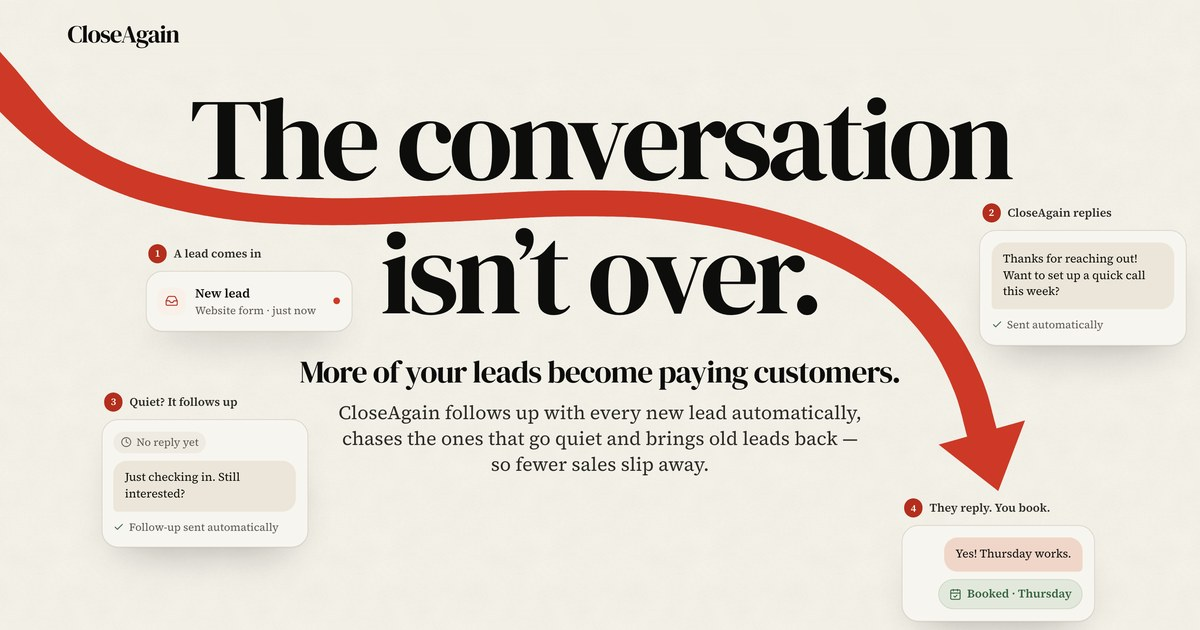
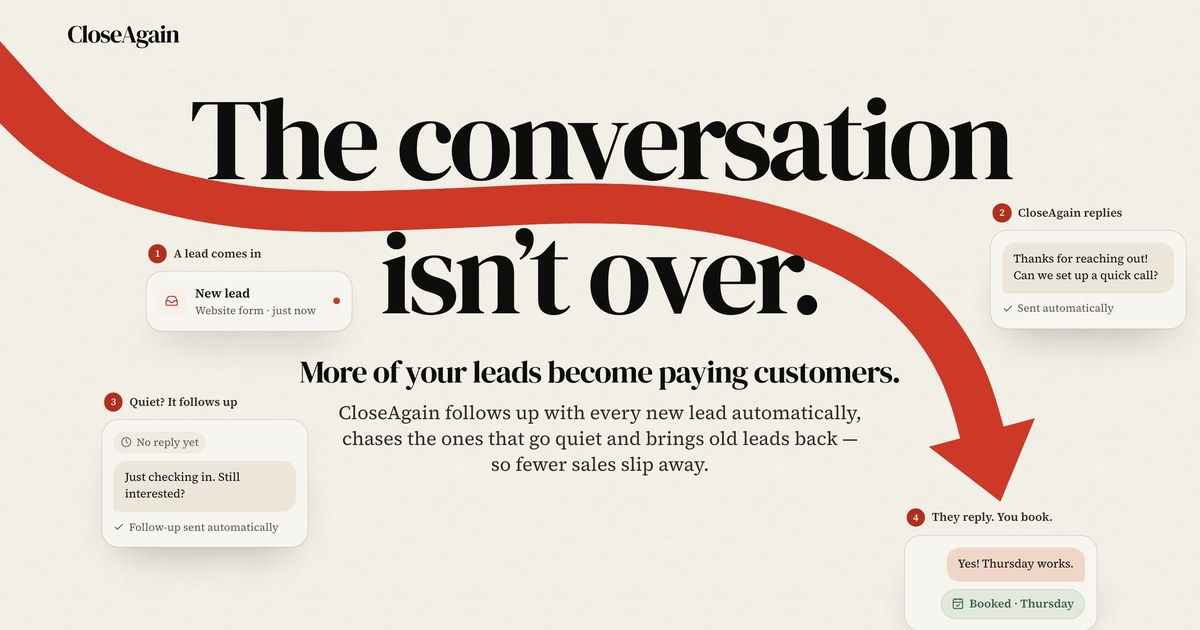
Thicker, smoother hero arrow; final polish pass (#21)
- Arrow: about 40% bolder (84 → 50 → 56 across its length, and 31 on
  phones). The centreline and width are smoothed with a few passes of a
  triangular average, so the curve has no kinks where the traced points
  join. Tangents use a wider window and the reveal follows the smoothed
  line exactly. The arrowhead is a little more compact, to suit the
  heavier shaft.
- Cards re-placed for the bolder stroke: "CloseAgain replies" sits outside
  the curve, and the booking card sits right under the new tip. The phone
  promise line has more room under the arrowhead.
- Reveals: something near the end of a short page (the thank-you bubble)
  plays as soon as it's in view, instead of waiting for a scroll position
  the page can't reach.
- Re-captured the share card.

Final checks: a crawl of all 27 pages found no broken links or anchors. The
contact-to-buy flow submits end to end (desktop, phone, no-JS) to the local
test sink. Every page was reviewed in dark mode.

diff --git a/lib/ribbon.ts b/lib/ribbon.ts
@@ -28,6 +28,13 @@ export type RibbonSpec = {
   taperStart?: number
   /** Sampling distance in viewBox units. */
   step?: number
+  /**
+   * Smoothing radius, in samples: the sampled centreline and width are
+   * averaged over this many neighbours (a few passes of a triangular
+   * kernel), which irons out the small changes of curvature where the traced
+   * points join, so the stroke reads as one continuous gesture.
+   */
+  smooth?: number
 }
 
 export type RibbonGeometry = {
@@ -108,6 +115,36 @@ function bezier(s: [Vec, Vec, Vec, Vec], t: number): Vec {
   ]
 }
 
+/**
+ * A few passes of a triangular moving average, keeping both ends where they
+ * are (the radius shrinks towards them, so the end tangent survives).
+ */
+function smoothSeries<T extends number | Vec>(values: T[], radius: number, passes = 3): T[] {
+  if (radius < 1) return values
+  let current = values
+  for (let pass = 0; pass < passes; pass++) {
+    current = current.map((value, i) => {
+      const r = Math.min(radius, i, current.length - 1 - i)
+      if (r < 1) return value
+      let total = 0
+      let x = 0
+      let y = 0
+      for (let k = -r; k <= r; k++) {
+        const weight = r + 1 - Math.abs(k)
+        const v = current[i + k]
+        total += weight
+        if (typeof v === 'number') x += v * weight
+        else {
+          x += v[0] * weight
+          y += v[1] * weight
+        }
+      }
+      return (typeof value === 'number' ? x / total : [x / total, y / total]) as T
+    })
+  }
+  return current
+}
+
 function interpolateWidth(stops: RibbonSpec['width'], t: number) {
   if (t <= stops[0][0]) return stops[0][1]
   for (let i = 1; i < stops.length; i++) {
@@ -146,15 +183,16 @@ export function buildRibbon(spec: RibbonSpec): RibbonGeometry {
   const total = cumulative[cumulative.length - 1]
   const count = Math.max(8, Math.ceil(total / step))
 
-  const samples: Vec[] = []
+  const even: Vec[] = []
   let j = 1
   for (let i = 0; i <= count; i++) {
     const target = (total * i) / count
     while (j < cumulative.length - 1 && cumulative[j] < target) j++
     const span = cumulative[j] - cumulative[j - 1] || 1
     const k = (target - cumulative[j - 1]) / span
-    samples.push(add(dense[j - 1], scale(sub(dense[j], dense[j - 1]), k)))
+    even.push(add(dense[j - 1], scale(sub(dense[j], dense[j - 1]), k)))
   }
+  const samples = smoothSeries(even, spec.smooth ?? 0)
 
   const left: Vec[] = []
   const right: Vec[] = []
@@ -162,21 +200,29 @@ export function buildRibbon(spec: RibbonSpec): RibbonGeometry {
   let endTangent: Vec = [1, 0]
   let endWidth = 0
 
+  const widths = smoothSeries(
+    samples.map((_, i) => {
+      const t = i / (samples.length - 1)
+      const arc = t * total
+      let w = interpolateWidth(spec.width, t)
+      w *= 1 + wobble * (0.6 * Math.sin(arc / 53 + seed) + 0.4 * Math.sin(arc / 19 + seed * 2.3))
+      if (spec.taperStart && arc < spec.taperStart) {
+        const k = arc / spec.taperStart
+        w *= 0.18 + 0.82 * Math.sin((k * Math.PI) / 2)
+      }
+      return w
+    }),
+    spec.smooth ?? 0,
+  )
+
   for (let i = 0; i < samples.length; i++) {
-    const prev = samples[Math.max(0, i - 1)]
-    const next = samples[Math.min(samples.length - 1, i + 1)]
+    // Tangents over two samples either side, so the edges never flicker.
+    const prev = samples[Math.max(0, i - 2)]
+    const next = samples[Math.min(samples.length - 1, i + 2)]
     const d = sub(next, prev)
     const tangent = scale(d, 1 / (len(d) || 1))
     const normal: Vec = [-tangent[1], tangent[0]]
-    const t = i / (samples.length - 1)
-    const arc = t * total
-
-    let w = interpolateWidth(spec.width, t)
-    w *= 1 + wobble * (0.6 * Math.sin(arc / 53 + seed) + 0.4 * Math.sin(arc / 19 + seed * 2.3))
-    if (spec.taperStart && arc < spec.taperStart) {
-      const k = arc / spec.taperStart
-      w *= 0.18 + 0.82 * Math.sin((k * Math.PI) / 2)
-    }
+    const w = widths[i]
 
     maxWidth = Math.max(maxWidth, w)
     left.push(add(samples[i], scale(normal, w / 2)))
@@ -225,8 +271,15 @@ export function buildRibbon(spec: RibbonSpec): RibbonGeometry {
     : null
   const headFrom = spec.arrow ? ([-endTangent[0] * endWidth * 1.1, -endTangent[1] * endWidth * 1.1] as const) : null
 
+  // The reveal follows the smoothed centreline exactly.
   const guide =
-    `M ${pt(segments[0][0])}` + segments.map((s) => ` C ${pt(s[1])} ${pt(s[2])} ${pt(s[3])}`).join('')
+    spec.smooth
+      ? `M ${pt(samples[0])}` +
+        samples
+          .filter((_, i) => i > 0 && (i % 3 === 0 || i === samples.length - 1))
+          .map((v) => ` L ${pt(v)}`)
+          .join('')
+      : `M ${pt(segments[0][0])}` + segments.map((s) => ` C ${pt(s[1])} ${pt(s[2])} ${pt(s[3])}`).join('')
 
   const padding = maxWidth * 1.5
   const xs = [...samples.map((p) => p[0]), tip[0]]

diff --git a/components/art/ribbons.ts b/components/art/ribbons.ts
@@ -7,9 +7,6 @@
 
 import type { RibbonSpec } from '@/lib/ribbon'
 
-/** Shared arrowhead proportions, measured from the reference (≈111 × 74 on a 38px shaft). */
-const head = { length: 1.95, spread: 2.95 } as const
-
 /** Homepage, wide screens. viewBox: the reference, from the header down to the first rule. */
 export const heroWide: { viewBox: string; spec: RibbonSpec } = {
   viewBox: '0 84 1513 703',
@@ -33,18 +30,21 @@ export const heroWide: { viewBox: string; spec: RibbonSpec } = {
       [1218, 548],
       [1234, 604],
     ],
+    // A bold stroke: broad as it enters, steady through the headline, and
+    // filling out a little into the arrowhead.
     width: [
-      [0, 64],
-      [0.12, 53],
-      [0.24, 38],
-      [0.46, 33.5],
-      [0.63, 32.5],
-      [0.82, 37],
-      [1, 38],
+      [0, 84],
+      [0.14, 70],
+      [0.3, 54],
+      [0.5, 50],
+      [0.68, 50],
+      [0.86, 54],
+      [1, 56],
     ],
-    arrow: { length: 2.0, spread: 2.95 },
+    arrow: { length: 1.6, spread: 2.45 },
     wobble: 0,
     step: 3,
+    smooth: 10,
     seed: 2,
   },
 }
@@ -72,13 +72,14 @@ export const heroCompact: { viewBox: string; spec: RibbonSpec } = {
       [-46, 196],
     ],
     width: [
-      [0, 23],
-      [0.6, 21],
-      [1, 22],
+      [0, 31],
+      [0.6, 29],
+      [1, 30],
     ],
-    arrow: head,
+    arrow: { length: 1.6, spread: 2.5 },
     wobble: 0,
     step: 3,
+    smooth: 6,
     seed: 5,
   },
 }

diff --git a/styles/home.css b/styles/home.css
@@ -73,7 +73,7 @@
    screens it starts just under the arrowhead, which points down at it. */
 .hero__promise {
   order: 3;
-  margin: max(1.1rem, calc(var(--hs) * 0.72)) 0 0;
+  margin: max(1.1rem, calc(var(--hs) * 0.82)) 0 0;
   max-width: 30ch;
   font-family: var(--font-display);
   font-size: clamp(1.6rem, 1.15rem + 1.5vw, 2.35rem);
@@ -316,7 +316,7 @@
 
   /* Room under the arrow for the booking card. */
   .hero__stage {
-    min-height: calc(var(--hs) * 4.06 + 10.5rem);
+    min-height: calc(var(--hs) * 4.154 + 10.5rem);
   }
 
   .hero-step {
@@ -334,8 +334,8 @@
   /* Outside the arrow's curve, clear of the headline's first line. */
   .hero-step--reply {
     top: calc(var(--hs) * 1.6);
-    left: calc(50% + var(--hs) * 3.25);
-    width: min(16.5rem, calc(50% - var(--hs) * 3.25 - 1rem));
+    left: calc(50% + var(--hs) * 3.34);
+    width: min(16.5rem, calc(50% - var(--hs) * 3.34 - 1rem));
   }
 
   .hero-step--again {
@@ -345,8 +345,8 @@
 
   /* Right under the arrowhead (ribbons.ts): the arrow lands on the booking. */
   .hero-step--booked {
-    top: calc(var(--hs) * 4.06 + 0.6rem);
-    left: calc(50% + var(--hs) * 3.41 - 7.25rem);
+    top: calc(var(--hs) * 4.154 + 0.5rem);
+    left: calc(50% + var(--hs) * 3.43 - 7.25rem);
     width: 14.5rem;
   }
 

diff --git a/components/site/MotionController.tsx b/components/site/MotionController.tsx
@@ -48,11 +48,15 @@ export function MotionController() {
     const content = watch(24)
     // Conversations and views start once their top is about a third of the way up the screen.
     const drawings = watch(Math.round(window.innerHeight * 0.3))
+    // How far the page can still scroll: something near the end of a short
+    // page may never rise as high as the drawing line.
+    const scrollLeft = document.documentElement.scrollHeight - window.innerHeight - window.scrollY
     targets.forEach((target) => {
-      const drawing = target.matches(drawTargets)
+      const top = target.getBoundingClientRect().top
+      const drawing = target.matches(drawTargets) && top - scrollLeft < window.innerHeight * 0.7
       const margin = drawing ? window.innerHeight * 0.3 : 24
       // A selected anchor or restored scroll position never leaves content hidden.
-      if (target.getBoundingClientRect().top < window.innerHeight - margin) reveal(target)
+      if (top < window.innerHeight - margin) reveal(target)
       else (drawing ? drawings : content).observe(target)
     })
 

diff --git a/content/home.ts b/content/home.ts
@@ -56,7 +56,7 @@ export const home = {
       reply: {
         title: 'CloseAgain replies',
         detail: 'Automatically',
-        message: 'Thanks for reaching out! Want to set up a quick call this week?',
+        message: 'Thanks for reaching out! Can we set up a quick call?',
         meta: 'Sent automatically',
       },
       again: {
